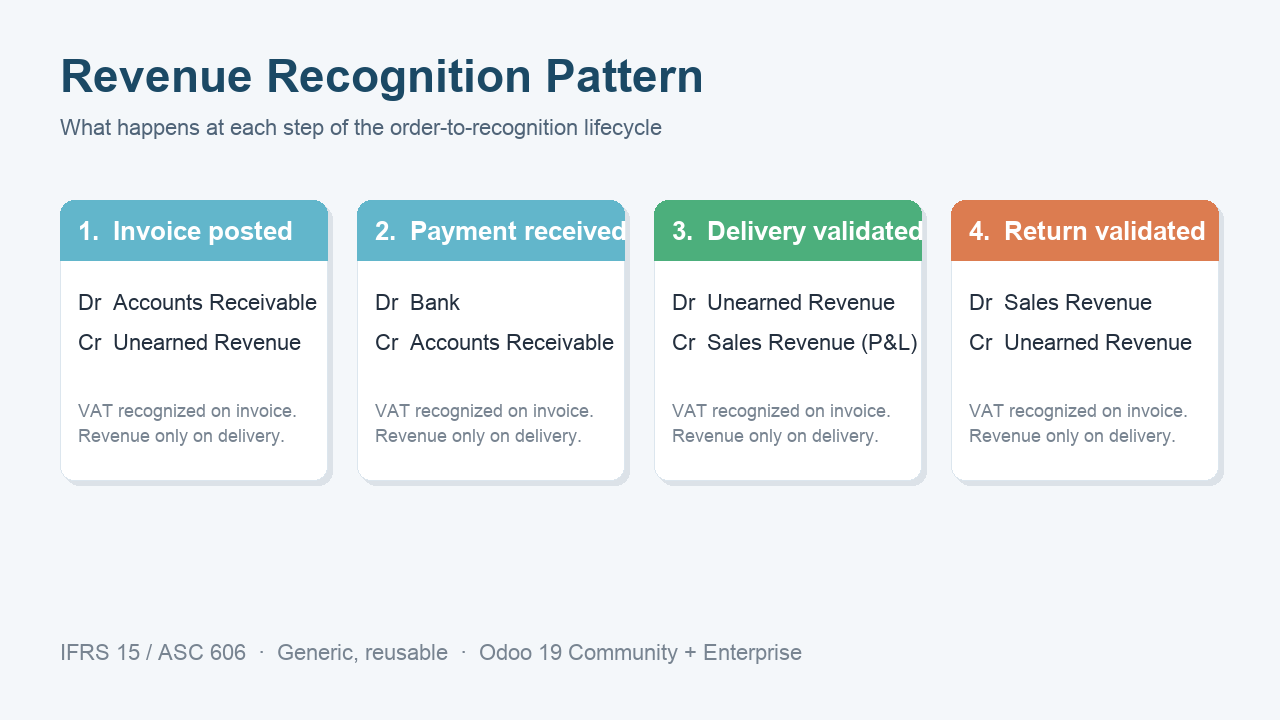
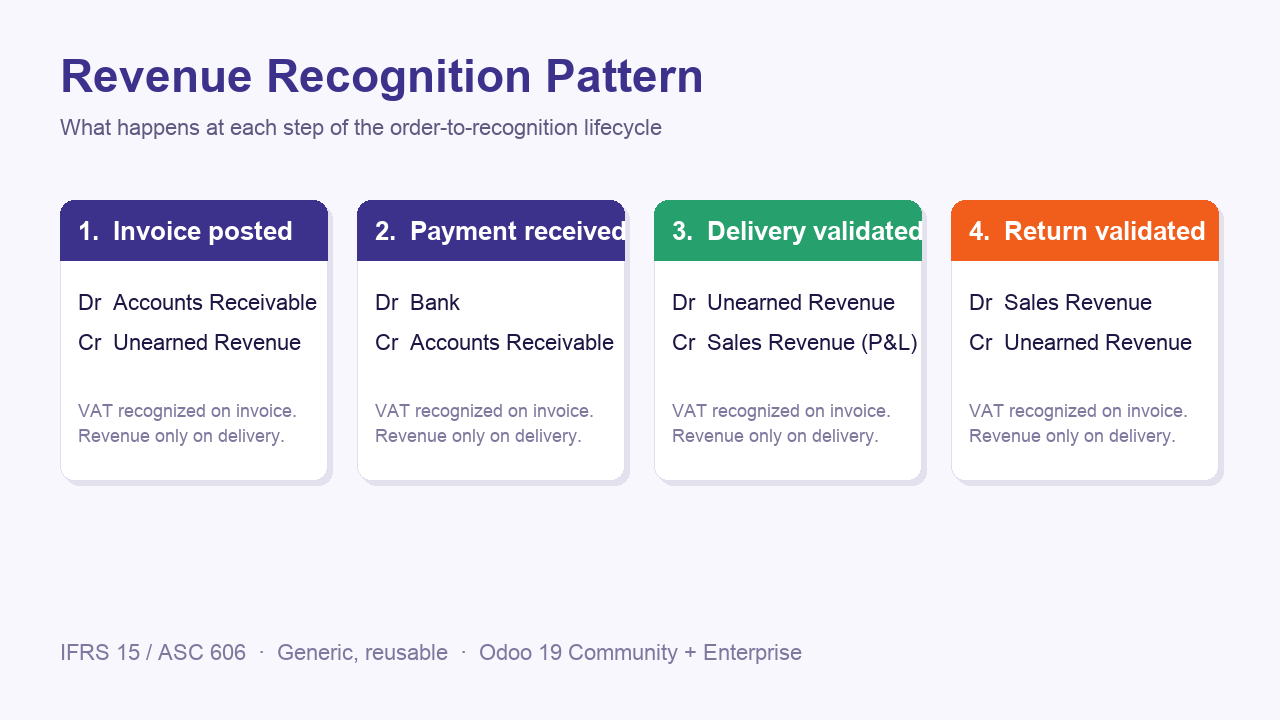
Apply Novalyft brand colors to Apps Store description
Switch from the placeholder navy/teal palette to the official Novalyft
Solutions brand:

  - #3C328C  primary indigo (was #1B4965 navy)
  - #F15E1C  accent orange (was #62B6CB teal)

Updated assets:
  - index.html — hero gradient, all section headings + borders, feature
    card top accents, pre-block borders (orange = standard Odoo, indigo
    = with this module), table dividers, table label color, link in
    footer, limitations callout (kept the warning tone but now orange-
    tinted), footer gradient.
  - icon.png — indigo gradient + orange time-arc accent.
  - banner.png — indigo gradient with orange decorative arcs and an
    orange-outlined info pill.
  - main_screenshot.png — pattern-diagram cards in indigo (steps 1-2),
    green (step 3 = recognition success), orange (step 4 = reversal).

Save the memory entry on brand colors so I default to them for any
future Novalyft assets.

diff --git a/unearned_revenue_recognition/static/description/index.html b/unearned_revenue_recognition/static/description/index.html
@@ -13,7 +13,7 @@
 <!-- ============================================================
      Hero
      ============================================================ -->
-<section style="background:linear-gradient(135deg,#1B4965 0%,#3E8A9E 50%,#62B6CB 100%);color:#fff;padding:48px 32px;border-radius:12px;text-align:center;font-family:'Helvetica Neue',Arial,sans-serif;">
+<section style="background:linear-gradient(135deg,#3C328C 0%,#5448B5 60%,#6E60C4 100%);color:#fff;padding:48px 32px;border-radius:12px;text-align:center;font-family:'Helvetica Neue',Arial,sans-serif;">
     <h1 style="margin:0 0 12px 0;font-size:44px;font-weight:800;letter-spacing:-0.5px;line-height:1.1;">
         Unearned Revenue Recognition on Delivery
     </h1>
@@ -21,7 +21,7 @@
         Defer revenue from invoice posting to physical delivery — IFRS 15 / ASC 606 compliant,
         built for retail, e-commerce, and wholesale workflows where customers pay upfront.
     </p>
-    <div style="display:inline-block;background:rgba(255,255,255,0.12);border:1px solid rgba(255,255,255,0.35);padding:8px 18px;border-radius:24px;font-weight:600;font-size:13px;letter-spacing:1px;">
+    <div style="display:inline-block;background:rgba(241,94,28,0.18);border:1px solid #F15E1C;color:#fff;padding:8px 18px;border-radius:24px;font-weight:700;font-size:13px;letter-spacing:1px;">
         ODOO 19 &nbsp;·&nbsp; COMMUNITY + ENTERPRISE &nbsp;·&nbsp; LGPL-3 &nbsp;·&nbsp; FREE
     </div>
 </section>
@@ -29,8 +29,8 @@
 <!-- ============================================================
      The problem this module solves
      ============================================================ -->
-<section style="padding:36px 16px;font-family:'Helvetica Neue',Arial,sans-serif;color:#1f2d3d;">
-    <h2 style="font-size:28px;color:#1B4965;border-bottom:2px solid #1B4965;padding-bottom:8px;margin-bottom:16px;">
+<section style="padding:36px 16px;font-family:'Helvetica Neue',Arial,sans-serif;color:#1f1947;">
+    <h2 style="font-size:28px;color:#3C328C;border-bottom:2px solid #3C328C;padding-bottom:8px;margin-bottom:16px;">
         The problem: prepayment recognizes revenue too early
     </h2>
     <p style="font-size:16px;line-height:1.6;">
@@ -42,7 +42,7 @@
     <p style="font-size:16px;line-height:1.6;">
         Standard Odoo behavior:
     </p>
-    <pre style="background:#f4f7fa;border-left:4px solid #1B4965;padding:14px 18px;font-size:14px;border-radius:6px;color:#1f2d3d;line-height:1.5;overflow:auto;">
+    <pre style="background:#f5f4fb;border-left:4px solid #F15E1C;padding:14px 18px;font-size:14px;border-radius:6px;color:#1f1947;line-height:1.5;overflow:auto;">
 ON INVOICE:    Dr  Accounts Receivable    Cr  Sales Revenue   ← too early!
                                           Cr  VAT Payable
 ON PAYMENT:    Dr  Bank                   Cr  Accounts Receivable
@@ -51,7 +51,7 @@ ON PAYMENT:    Dr  Bank                   Cr  Accounts Receivable
         This module changes the pattern so revenue lands on the P&amp;L
         <strong>only when goods are physically delivered</strong>:
     </p>
-    <pre style="background:#f4f7fa;border-left:4px solid #62B6CB;padding:14px 18px;font-size:14px;border-radius:6px;color:#1f2d3d;line-height:1.5;overflow:auto;">
+    <pre style="background:#f5f4fb;border-left:4px solid #3C328C;padding:14px 18px;font-size:14px;border-radius:6px;color:#1f1947;line-height:1.5;overflow:auto;">
 ON INVOICE:        Dr  Accounts Receivable     Cr  Unearned Revenue  (Balance Sheet liability)
                                                Cr  VAT Payable
 ON PAYMENT:        Dr  Bank                    Cr  Accounts Receivable
@@ -67,98 +67,98 @@ ON RETURN:         Dr  Sales Revenue           Cr  Unearned Revenue  (auto rever
 <!-- ============================================================
      Key features
      ============================================================ -->
-<section style="padding:36px 16px;background:#f8fafc;border-radius:12px;font-family:'Helvetica Neue',Arial,sans-serif;color:#1f2d3d;">
-    <h2 style="font-size:28px;color:#1B4965;border-bottom:2px solid #1B4965;padding-bottom:8px;margin-bottom:24px;">
+<section style="padding:36px 16px;background:#f8f7fc;border-radius:12px;font-family:'Helvetica Neue',Arial,sans-serif;color:#1f1947;">
+    <h2 style="font-size:28px;color:#3C328C;border-bottom:2px solid #3C328C;padding-bottom:8px;margin-bottom:24px;">
         Key features
     </h2>
     <div style="display:flex;flex-wrap:wrap;gap:18px;">
-        <div style="flex:1 1 280px;background:#fff;border:1px solid #e2e8ef;border-radius:10px;padding:20px;">
-            <h3 style="margin:0 0 8px 0;color:#1B4965;font-size:18px;">Automatic redirect on invoice posting</h3>
-            <p style="margin:0;font-size:15px;line-height:1.55;color:#3f5163;">
+        <div style="flex:1 1 280px;background:#fff;border:1px solid #e5e2f0;border-top:3px solid #F15E1C;border-radius:10px;padding:20px;">
+            <h3 style="margin:0 0 8px 0;color:#3C328C;font-size:18px;">Automatic redirect on invoice posting</h3>
+            <p style="margin:0;font-size:15px;line-height:1.55;color:#4a4378;">
                 Invoice lines generated from a sales order are routed to an Unearned Revenue
                 liability account instead of Sales Revenue. AR, VAT, and tax accounts are
                 untouched.
             </p>
         </div>
-        <div style="flex:1 1 280px;background:#fff;border:1px solid #e2e8ef;border-radius:10px;padding:20px;">
-            <h3 style="margin:0 0 8px 0;color:#1B4965;font-size:18px;">Recognition on delivery</h3>
-            <p style="margin:0;font-size:15px;line-height:1.55;color:#3f5163;">
+        <div style="flex:1 1 280px;background:#fff;border:1px solid #e5e2f0;border-top:3px solid #F15E1C;border-radius:10px;padding:20px;">
+            <h3 style="margin:0 0 8px 0;color:#3C328C;font-size:18px;">Recognition on delivery</h3>
+            <p style="margin:0;font-size:15px;line-height:1.55;color:#4a4378;">
                 Validating an outgoing stock picking posts a Miscellaneous journal entry
                 that moves the delivered portion from Unearned Revenue to Sales Revenue,
                 in real time.
             </p>
         </div>
-        <div style="flex:1 1 280px;background:#fff;border:1px solid #e2e8ef;border-radius:10px;padding:20px;">
-            <h3 style="margin:0 0 8px 0;color:#1B4965;font-size:18px;">Partial deliveries &amp; backorders</h3>
-            <p style="margin:0;font-size:15px;line-height:1.55;color:#3f5163;">
+        <div style="flex:1 1 280px;background:#fff;border:1px solid #e5e2f0;border-top:3px solid #F15E1C;border-radius:10px;padding:20px;">
+            <h3 style="margin:0 0 8px 0;color:#3C328C;font-size:18px;">Partial deliveries &amp; backorders</h3>
+            <p style="margin:0;font-size:15px;line-height:1.55;color:#4a4378;">
                 Each picking recognizes only its proportional share. Backorders recognize
                 their portion when later validated. The audit trail tracks per-move
                 quantities so re-validation can never double-count.
             </p>
         </div>
-        <div style="flex:1 1 280px;background:#fff;border:1px solid #e2e8ef;border-radius:10px;padding:20px;">
-            <h3 style="margin:0 0 8px 0;color:#1B4965;font-size:18px;">Returns auto-reverse</h3>
-            <p style="margin:0;font-size:15px;line-height:1.55;color:#3f5163;">
+        <div style="flex:1 1 280px;background:#fff;border:1px solid #e5e2f0;border-top:3px solid #F15E1C;border-radius:10px;padding:20px;">
+            <h3 style="margin:0 0 8px 0;color:#3C328C;font-size:18px;">Returns auto-reverse</h3>
+            <p style="margin:0;font-size:15px;line-height:1.55;color:#4a4378;">
                 Validating an incoming return picking posts the inverse entry automatically,
                 proportional to the returned quantity at the invoice's original FX rate.
             </p>
         </div>
-        <div style="flex:1 1 280px;background:#fff;border:1px solid #e2e8ef;border-radius:10px;padding:20px;">
-            <h3 style="margin:0 0 8px 0;color:#1B4965;font-size:18px;">Credit notes protect Sales Revenue</h3>
-            <p style="margin:0;font-size:15px;line-height:1.55;color:#3f5163;">
+        <div style="flex:1 1 280px;background:#fff;border:1px solid #e5e2f0;border-top:3px solid #F15E1C;border-radius:10px;padding:20px;">
+            <h3 style="margin:0 0 8px 0;color:#3C328C;font-size:18px;">Credit notes protect Sales Revenue</h3>
+            <p style="margin:0;font-size:15px;line-height:1.55;color:#4a4378;">
                 Credit notes against deferred invoices inherit the deferral account, so order
                 modifications never accidentally hit the P&amp;L.
             </p>
         </div>
-        <div style="flex:1 1 280px;background:#fff;border:1px solid #e2e8ef;border-radius:10px;padding:20px;">
-            <h3 style="margin:0 0 8px 0;color:#1B4965;font-size:18px;">Multi-currency, frozen at invoice date</h3>
-            <p style="margin:0;font-size:15px;line-height:1.55;color:#3f5163;">
+        <div style="flex:1 1 280px;background:#fff;border:1px solid #e5e2f0;border-top:3px solid #F15E1C;border-radius:10px;padding:20px;">
+            <h3 style="margin:0 0 8px 0;color:#3C328C;font-size:18px;">Multi-currency, frozen at invoice date</h3>
+            <p style="margin:0;font-size:15px;line-height:1.55;color:#4a4378;">
                 Recognition entries reuse the invoice's posted FX rate via the line's
                 <code>balance</code> — no rate lookup at delivery time, no FX surprises.
             </p>
         </div>
-        <div style="flex:1 1 280px;background:#fff;border:1px solid #e2e8ef;border-radius:10px;padding:20px;">
-            <h3 style="margin:0 0 8px 0;color:#1B4965;font-size:18px;">Multi-company aware</h3>
-            <p style="margin:0;font-size:15px;line-height:1.55;color:#3f5163;">
+        <div style="flex:1 1 280px;background:#fff;border:1px solid #e5e2f0;border-top:3px solid #F15E1C;border-radius:10px;padding:20px;">
+            <h3 style="margin:0 0 8px 0;color:#3C328C;font-size:18px;">Multi-company aware</h3>
+            <p style="margin:0;font-size:15px;line-height:1.55;color:#4a4378;">
                 Recognition entries post in the correct company's books with its own
                 chart of accounts. A multi-company record rule keeps audit lines scoped
                 per company.
             </p>
         </div>
-        <div style="flex:1 1 280px;background:#fff;border:1px solid #e2e8ef;border-radius:10px;padding:20px;">
-            <h3 style="margin:0 0 8px 0;color:#1B4965;font-size:18px;">Three-level configuration</h3>
-            <p style="margin:0;font-size:15px;line-height:1.55;color:#3f5163;">
+        <div style="flex:1 1 280px;background:#fff;border:1px solid #e5e2f0;border-top:3px solid #F15E1C;border-radius:10px;padding:20px;">
+            <h3 style="margin:0 0 8px 0;color:#3C328C;font-size:18px;">Three-level configuration</h3>
+            <p style="margin:0;font-size:15px;line-height:1.55;color:#4a4378;">
                 Set the deferral account per <em>product category</em>, fall back to a
                 <em>company-wide default</em>, fall back to Odoo Enterprise's native
                 Deferred Revenue Account. No client-specific hardcoding.
             </p>
         </div>
-        <div style="flex:1 1 280px;background:#fff;border:1px solid #e2e8ef;border-radius:10px;padding:20px;">
-            <h3 style="margin:0 0 8px 0;color:#1B4965;font-size:18px;">Full audit trail</h3>
-            <p style="margin:0;font-size:15px;line-height:1.55;color:#3f5163;">
+        <div style="flex:1 1 280px;background:#fff;border:1px solid #e5e2f0;border-top:3px solid #F15E1C;border-radius:10px;padding:20px;">
+            <h3 style="margin:0 0 8px 0;color:#3C328C;font-size:18px;">Full audit trail</h3>
+            <p style="margin:0;font-size:15px;line-height:1.55;color:#4a4378;">
                 Every recognition and reversal writes a dedicated audit-trail row
                 (<code>x.revenue.recognition.line</code>) cross-linking the picking,
                 sale order, invoice, and journal entry.
             </p>
         </div>
-        <div style="flex:1 1 280px;background:#fff;border:1px solid #e2e8ef;border-radius:10px;padding:20px;">
-            <h3 style="margin:0 0 8px 0;color:#1B4965;font-size:18px;">Smart buttons everywhere</h3>
-            <p style="margin:0;font-size:15px;line-height:1.55;color:#3f5163;">
+        <div style="flex:1 1 280px;background:#fff;border:1px solid #e5e2f0;border-top:3px solid #F15E1C;border-radius:10px;padding:20px;">
+            <h3 style="margin:0 0 8px 0;color:#3C328C;font-size:18px;">Smart buttons everywhere</h3>
+            <p style="margin:0;font-size:15px;line-height:1.55;color:#4a4378;">
                 The Sales Order, Customer Invoice, and Stock Picking forms each show a
                 Revenue Recognition smart button with quick access to the filtered audit
                 trail.
             </p>
         </div>
-        <div style="flex:1 1 280px;background:#fff;border:1px solid #e2e8ef;border-radius:10px;padding:20px;">
-            <h3 style="margin:0 0 8px 0;color:#1B4965;font-size:18px;">SO recognition status</h3>
-            <p style="margin:0;font-size:15px;line-height:1.55;color:#3f5163;">
+        <div style="flex:1 1 280px;background:#fff;border:1px solid #e5e2f0;border-top:3px solid #F15E1C;border-radius:10px;padding:20px;">
+            <h3 style="margin:0 0 8px 0;color:#3C328C;font-size:18px;">SO recognition status</h3>
+            <p style="margin:0;font-size:15px;line-height:1.55;color:#4a4378;">
                 Recognized Revenue / Pending Recognition / Status (not_started / partial /
                 complete) on every Sales Order header — at a glance.
             </p>
         </div>
-        <div style="flex:1 1 280px;background:#fff;border:1px solid #e2e8ef;border-radius:10px;padding:20px;">
-            <h3 style="margin:0 0 8px 0;color:#1B4965;font-size:18px;">Deferred Revenue report</h3>
-            <p style="margin:0;font-size:15px;line-height:1.55;color:#3f5163;">
+        <div style="flex:1 1 280px;background:#fff;border:1px solid #e5e2f0;border-top:3px solid #F15E1C;border-radius:10px;padding:20px;">
+            <h3 style="margin:0 0 8px 0;color:#3C328C;font-size:18px;">Deferred Revenue report</h3>
+            <p style="margin:0;font-size:15px;line-height:1.55;color:#4a4378;">
                 New menu under <em>Accounting → Reporting → Deferred Revenue</em> lists
                 all posted invoice lines still parked in deferral, grouped by partner.
             </p>
@@ -169,19 +169,19 @@ ON RETURN:         Dr  Sales Revenue           Cr  Unearned Revenue  (auto rever
 <!-- ============================================================
      Pattern diagram screenshot
      ============================================================ -->
-<section style="padding:36px 16px;text-align:center;font-family:'Helvetica Neue',Arial,sans-serif;color:#1f2d3d;">
-    <h2 style="font-size:28px;color:#1B4965;border-bottom:2px solid #1B4965;padding-bottom:8px;margin-bottom:16px;text-align:left;">
+<section style="padding:36px 16px;text-align:center;font-family:'Helvetica Neue',Arial,sans-serif;color:#1f1947;">
+    <h2 style="font-size:28px;color:#3C328C;border-bottom:2px solid #3C328C;padding-bottom:8px;margin-bottom:16px;text-align:left;">
         The accounting pattern at a glance
     </h2>
     <img src="main_screenshot.png" alt="Revenue recognition pattern: invoice posts to unearned revenue, delivery posts to sales revenue, returns reverse"
-         style="max-width:100%;height:auto;border-radius:10px;border:1px solid #e2e8ef;box-shadow:0 4px 20px rgba(27,73,101,0.08);"/>
+         style="max-width:100%;height:auto;border-radius:10px;border:1px solid #e5e2f0;box-shadow:0 4px 20px rgba(60,50,140,0.12);"/>
 </section>
 
 <!-- ============================================================
      Configuration
      ============================================================ -->
-<section style="padding:36px 16px;background:#f8fafc;border-radius:12px;font-family:'Helvetica Neue',Arial,sans-serif;color:#1f2d3d;">
-    <h2 style="font-size:28px;color:#1B4965;border-bottom:2px solid #1B4965;padding-bottom:8px;margin-bottom:16px;">
+<section style="padding:36px 16px;background:#f8f7fc;border-radius:12px;font-family:'Helvetica Neue',Arial,sans-serif;color:#1f1947;">
+    <h2 style="font-size:28px;color:#3C328C;border-bottom:2px solid #3C328C;padding-bottom:8px;margin-bottom:16px;">
         Configure in three minutes
     </h2>
     <ol style="font-size:16px;line-height:1.7;padding-left:22px;">
@@ -202,7 +202,7 @@ ON RETURN:         Dr  Sales Revenue           Cr  Unearned Revenue  (auto rever
             invoice posting, or Recognize on delivery.
         </li>
     </ol>
-    <p style="font-size:15px;line-height:1.6;color:#506173;">
+    <p style="font-size:15px;line-height:1.6;color:#675d9b;">
         <strong>Automatic</strong> means storable / consumable goods recognize on delivery
         and services recognize on invoice — the right default for most retail catalogs.
     </p>
@@ -211,8 +211,8 @@ ON RETURN:         Dr  Sales Revenue           Cr  Unearned Revenue  (auto rever
 <!-- ============================================================
      Edge cases handled
      ============================================================ -->
-<section style="padding:36px 16px;font-family:'Helvetica Neue',Arial,sans-serif;color:#1f2d3d;">
-    <h2 style="font-size:28px;color:#1B4965;border-bottom:2px solid #1B4965;padding-bottom:8px;margin-bottom:16px;">
+<section style="padding:36px 16px;font-family:'Helvetica Neue',Arial,sans-serif;color:#1f1947;">
+    <h2 style="font-size:28px;color:#3C328C;border-bottom:2px solid #3C328C;padding-bottom:8px;margin-bottom:16px;">
         Edge cases the module gets right
     </h2>
     <ul style="font-size:16px;line-height:1.7;padding-left:22px;">
@@ -232,30 +232,30 @@ ON RETURN:         Dr  Sales Revenue           Cr  Unearned Revenue  (auto rever
 <!-- ============================================================
      Compatibility
      ============================================================ -->
-<section style="padding:36px 16px;background:#f8fafc;border-radius:12px;font-family:'Helvetica Neue',Arial,sans-serif;color:#1f2d3d;">
-    <h2 style="font-size:28px;color:#1B4965;border-bottom:2px solid #1B4965;padding-bottom:8px;margin-bottom:16px;">
+<section style="padding:36px 16px;background:#f8f7fc;border-radius:12px;font-family:'Helvetica Neue',Arial,sans-serif;color:#1f1947;">
+    <h2 style="font-size:28px;color:#3C328C;border-bottom:2px solid #3C328C;padding-bottom:8px;margin-bottom:16px;">
         Compatibility
     </h2>
     <table style="width:100%;border-collapse:collapse;font-size:15px;">
         <tbody>
-        <tr style="border-bottom:1px solid #e2e8ef;">
-            <td style="padding:10px 8px;width:40%;color:#506173;">Odoo version</td>
+        <tr style="border-bottom:1px solid #e5e2f0;">
+            <td style="padding:10px 8px;width:40%;color:#675d9b;">Odoo version</td>
             <td style="padding:10px 8px;"><strong>19.0</strong> (Community and Enterprise)</td>
         </tr>
-        <tr style="border-bottom:1px solid #e2e8ef;">
-            <td style="padding:10px 8px;color:#506173;">Dependencies</td>
+        <tr style="border-bottom:1px solid #e5e2f0;">
+            <td style="padding:10px 8px;color:#675d9b;">Dependencies</td>
             <td style="padding:10px 8px;"><code>account</code>, <code>sale_management</code>, <code>stock</code>, <code>sale_stock</code> — all standard Odoo.</td>
         </tr>
-        <tr style="border-bottom:1px solid #e2e8ef;">
-            <td style="padding:10px 8px;color:#506173;">Enterprise integration</td>
+        <tr style="border-bottom:1px solid #e5e2f0;">
+            <td style="padding:10px 8px;color:#675d9b;">Enterprise integration</td>
             <td style="padding:10px 8px;"><code>account_accountant</code>'s native Deferred Revenue Account is detected at runtime and used as a fallback. <strong>Not required.</strong></td>
         </tr>
-        <tr style="border-bottom:1px solid #e2e8ef;">
-            <td style="padding:10px 8px;color:#506173;">License</td>
+        <tr style="border-bottom:1px solid #e5e2f0;">
+            <td style="padding:10px 8px;color:#675d9b;">License</td>
             <td style="padding:10px 8px;"><strong>LGPL-3</strong></td>
         </tr>
         <tr>
-            <td style="padding:10px 8px;color:#506173;">Tests</td>
+            <td style="padding:10px 8px;color:#675d9b;">Tests</td>
             <td style="padding:10px 8px;">27 unit tests covering invoice routing, recognition triggers, partial deliveries, returns, credit notes, idempotency, multi-currency, services, taxes, multi-invoice, security, and dropship.</td>
         </tr>
         </tbody>
@@ -265,8 +265,8 @@ ON RETURN:         Dr  Sales Revenue           Cr  Unearned Revenue  (auto rever
 <!-- ============================================================
      Who it's for
      ============================================================ -->
-<section style="padding:36px 16px;font-family:'Helvetica Neue',Arial,sans-serif;color:#1f2d3d;">
-    <h2 style="font-size:28px;color:#1B4965;border-bottom:2px solid #1B4965;padding-bottom:8px;margin-bottom:16px;">
+<section style="padding:36px 16px;font-family:'Helvetica Neue',Arial,sans-serif;color:#1f1947;">
+    <h2 style="font-size:28px;color:#3C328C;border-bottom:2px solid #3C328C;padding-bottom:8px;margin-bottom:16px;">
         Who is this for?
     </h2>
     <ul style="font-size:16px;line-height:1.7;padding-left:22px;">
@@ -282,9 +282,9 @@ ON RETURN:         Dr  Sales Revenue           Cr  Unearned Revenue  (auto rever
 <!-- ============================================================
      Limitations (transparent)
      ============================================================ -->
-<section style="padding:36px 16px;background:#fffbe6;border:1px solid #f7e8a4;border-radius:12px;font-family:'Helvetica Neue',Arial,sans-serif;color:#1f2d3d;">
-    <h2 style="font-size:24px;color:#7a5d10;margin:0 0 12px 0;">Known limitations</h2>
-    <ul style="font-size:15px;line-height:1.65;padding-left:22px;color:#5a4505;margin:0;">
+<section style="padding:36px 16px;background:#fff5ef;border:1px solid #f7c8ac;border-radius:12px;font-family:'Helvetica Neue',Arial,sans-serif;color:#1f1947;">
+    <h2 style="font-size:24px;color:#B83D0F;margin:0 0 12px 0;">Known limitations</h2>
+    <ul style="font-size:15px;line-height:1.65;padding-left:22px;color:#7a3210;margin:0;">
         <li><strong>No time-based deferral.</strong> Use Odoo's native Enterprise Deferred Revenue feature for annual contracts, subscriptions, or prepaid hours.</li>
         <li><strong>Services explicitly set to defer</strong> have no automatic delivery driver — the invoice chatter logs a warning so the accountant knows to clear it manually.</li>
         <li><strong>Manual (non-SO) invoices are never redirected</strong> — by design, so customer-service invoice fixes don't accidentally enter deferral.</li>
@@ -295,13 +295,13 @@ ON RETURN:         Dr  Sales Revenue           Cr  Unearned Revenue  (auto rever
 <!-- ============================================================
      Footer / author
      ============================================================ -->
-<section style="margin-top:36px;padding:32px 24px;background:linear-gradient(135deg,#1B4965 0%,#3E8A9E 100%);color:#fff;border-radius:12px;text-align:center;font-family:'Helvetica Neue',Arial,sans-serif;">
+<section style="margin-top:36px;padding:32px 24px;background:linear-gradient(135deg,#3C328C 0%,#5448B5 60%,#F15E1C 140%);color:#fff;border-radius:12px;text-align:center;font-family:'Helvetica Neue',Arial,sans-serif;">
     <h2 style="margin:0 0 8px 0;font-size:22px;">Built by Novalyft Solutions</h2>
     <p style="margin:0 0 4px 0;font-size:15px;opacity:0.95;">
         We build Odoo implementations and modules for the Levant, GCC, and beyond.
     </p>
     <p style="margin:0;font-size:14px;opacity:0.85;">
-        Visit <a href="https://novalyftsolutions.com" style="color:#fff;text-decoration:underline;">novalyftsolutions.com</a>
+        Visit <a href="https://novalyftsolutions.com" style="color:#F15E1C;text-decoration:underline;font-weight:600;">novalyftsolutions.com</a>
         &nbsp;·&nbsp; License LGPL-3 &nbsp;·&nbsp; Free and open source.
     </p>
 </section>
